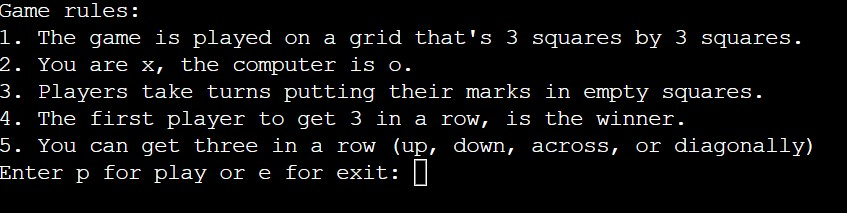
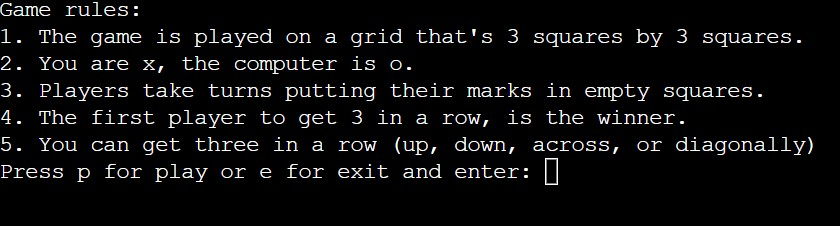
Add links. Removed link. Changed image and fixed some spelling

diff --git a/README.md b/README.md
@@ -67,7 +67,7 @@ Simple to understand | Clean and good explanations in the right place
 ![screenshot-game-play](assets/screenshot-game-playe.jpg)
 
 - __When the user presses a sign or a number outside 1-9, a message is displayed "The input are incorect!"__
-- __When the user selects a number that is already taken, a message is displayed "The spot is alredy taken! Please enter a free spot"__
+- __When the user selects a number that is already taken, a message is displayed "The spot is alredy taken! Please choose a free spot"__
 - __This helps the user quickly understand what is wrong__
 
 ![screenshot-game-incorect-input](assets/screenshot-game-incorect-input.jpg)
@@ -90,10 +90,10 @@ Simple to understand | Clean and good explanations in the right place
 
 ## Libraries
 
-In this project the following are used:
+In this project the following libraries are used:
 
 - __random as used for the computer's random selection in the game. And it is written like this random.randint(0, 8). 0, 8 stand for the squares in the board that the computer must randomly choose from. And to be able to use it, you have to import it into your code. This is done by writing import random at the top of the code.__
-- __os used to clear the screen. And it is needed for the UX. Without this, the screen becomes messy and difficult to use. Where you want the screen to be cleared in the code, write os.system('clear'). And to be able to use it, you have to import it into your code. This is done by writing import os at the top of the code.__
+- __os used to clear the screen. And it is needed for the UX. Without this, the screen becomes messy and difficult to use. Where you want the screen to be cleared in the code write, os.system('clear'). And to be able to use it, you have to import it into your code. This is done by writing import os at the top of the code.__
 
 
 ## Testing
@@ -102,7 +102,7 @@ I have tested this game through the following steps:
 
 - __I have tested that everything works on different browsers: Chrome, Edge, and Firefox__
 - __I have asked family and friends to test the game. And see if it works on their computers, mobiles and iPads__
-- __I have tested it in my local terminal and in the  Code Institute mock terminal on Heroku.__
+- __I have tested it in my local terminal and in the Code Institute mock terminal on Heroku.__
 
 ### Bugs
 
@@ -117,8 +117,6 @@ I have tested this game through the following steps:
 ![screenshot-fixed-bug](assets/screenshot-fixed-bug.jpg)
 
 - __The bug was that isnumeric() needed to be read first for the code to work.__
-
-
   
   - __Unfixed Bugs__
 
@@ -128,11 +126,12 @@ I have tested this game through the following steps:
 
 - __pep8online__
 
-  - The code did not give any error messages in [pep8online](http://pep8online.com/checkresult)
+  - The code did not give any error messages in pep8online.com.
 
 ## Deployment
 
-To deploy this page to Heroku the following steps have been followed:
+To deploy this page to Heroku. I have followed, Code institute, Love Sandwiches Walkthrough Project.
+The following steps have been followed:
 
 - __Go to [Heroku](https://dashboard.heroku.com/apps/sandwiche/deploy/github).__
 - __Create an account or log in if you have already registered.__
@@ -140,7 +139,7 @@ To deploy this page to Heroku the following steps have been followed:
 - __Enter your app name. The app name must be unique to be approved. After that select your region.__
 - __Click on Create app.__
 - __Click settings and scroll down to Config vars.__
-- __Click on Reveal config vars and type PORT in KEY and type 8000 the value field Click the Add button.__
+- __Click on Reveal config vars and type PORT in KEY and type 8000 in the value field. Click the Add button.__
 - __Scroll down to Buildpacks. And click the Add buildpack and select python and node.js. You can only choose one at a time and python must come before node.js. If python is not first, just click and drag it to the top and save.__
 - __click on the deploy tab. And scroll down and select gitHub as deployment.__
 - __Connect your github account, confirm and proceed.__
@@ -158,6 +157,8 @@ To deploy this page to Heroku the following steps have been followed:
 - __In the top right corner click the Fork button.__
 - __Done you can start work on the copy.__
 
+You can read more about it here [GitHub](https://docs.github.com/en/get-started/quickstart/fork-a-repo)
+
 ## Clone the projekt
 
 - __Go to Github and go to the main page of the repository.__
@@ -168,14 +169,16 @@ To deploy this page to Heroku the following steps have been followed:
 - __Type 'git clone' and paste the URL.__
 - __Press enter, and now it’s done.__
 
+You can read more about it here [GitHub](https://docs.github.com/en/repositories/creating-and-managing-repositories/cloning-a-repository)
+
 ## Credits
 
 - __I have been helped with the error message in playerChoise() by Tutor at code institute.__
 - __My starting code I get from this [youtube video](https://www.youtube.com/watch?v=dK6gJw4-NCo)__
 - __I have used [Greatlearning](https://www.mygreatlearning.com/blog/readme-file/)  for the Tables in the README.md file.__
 - __I have used this page [scaler](https://www.scaler.com/topics/random-function-in-python/) to be able to clear the screen and set the computer's selection to random__
-- __Details of tic tac toe game [Wikipedia](https://en.wikipedia.org/wiki/Tic-tac-toe)__
-- __I got the game rules from [.exploratorium](https://www.exploratorium.edu/brain_explorer/tictactoe.html)__
+- __I have received details of tic tac toe game on [Wikipedia](https://en.wikipedia.org/wiki/Tic-tac-toe)__
+- __I got the game rules from [exploratorium](https://www.exploratorium.edu/brain_explorer/tictactoe.html)__
 
 [Back to Table of contents](#table-of-contents)
 
